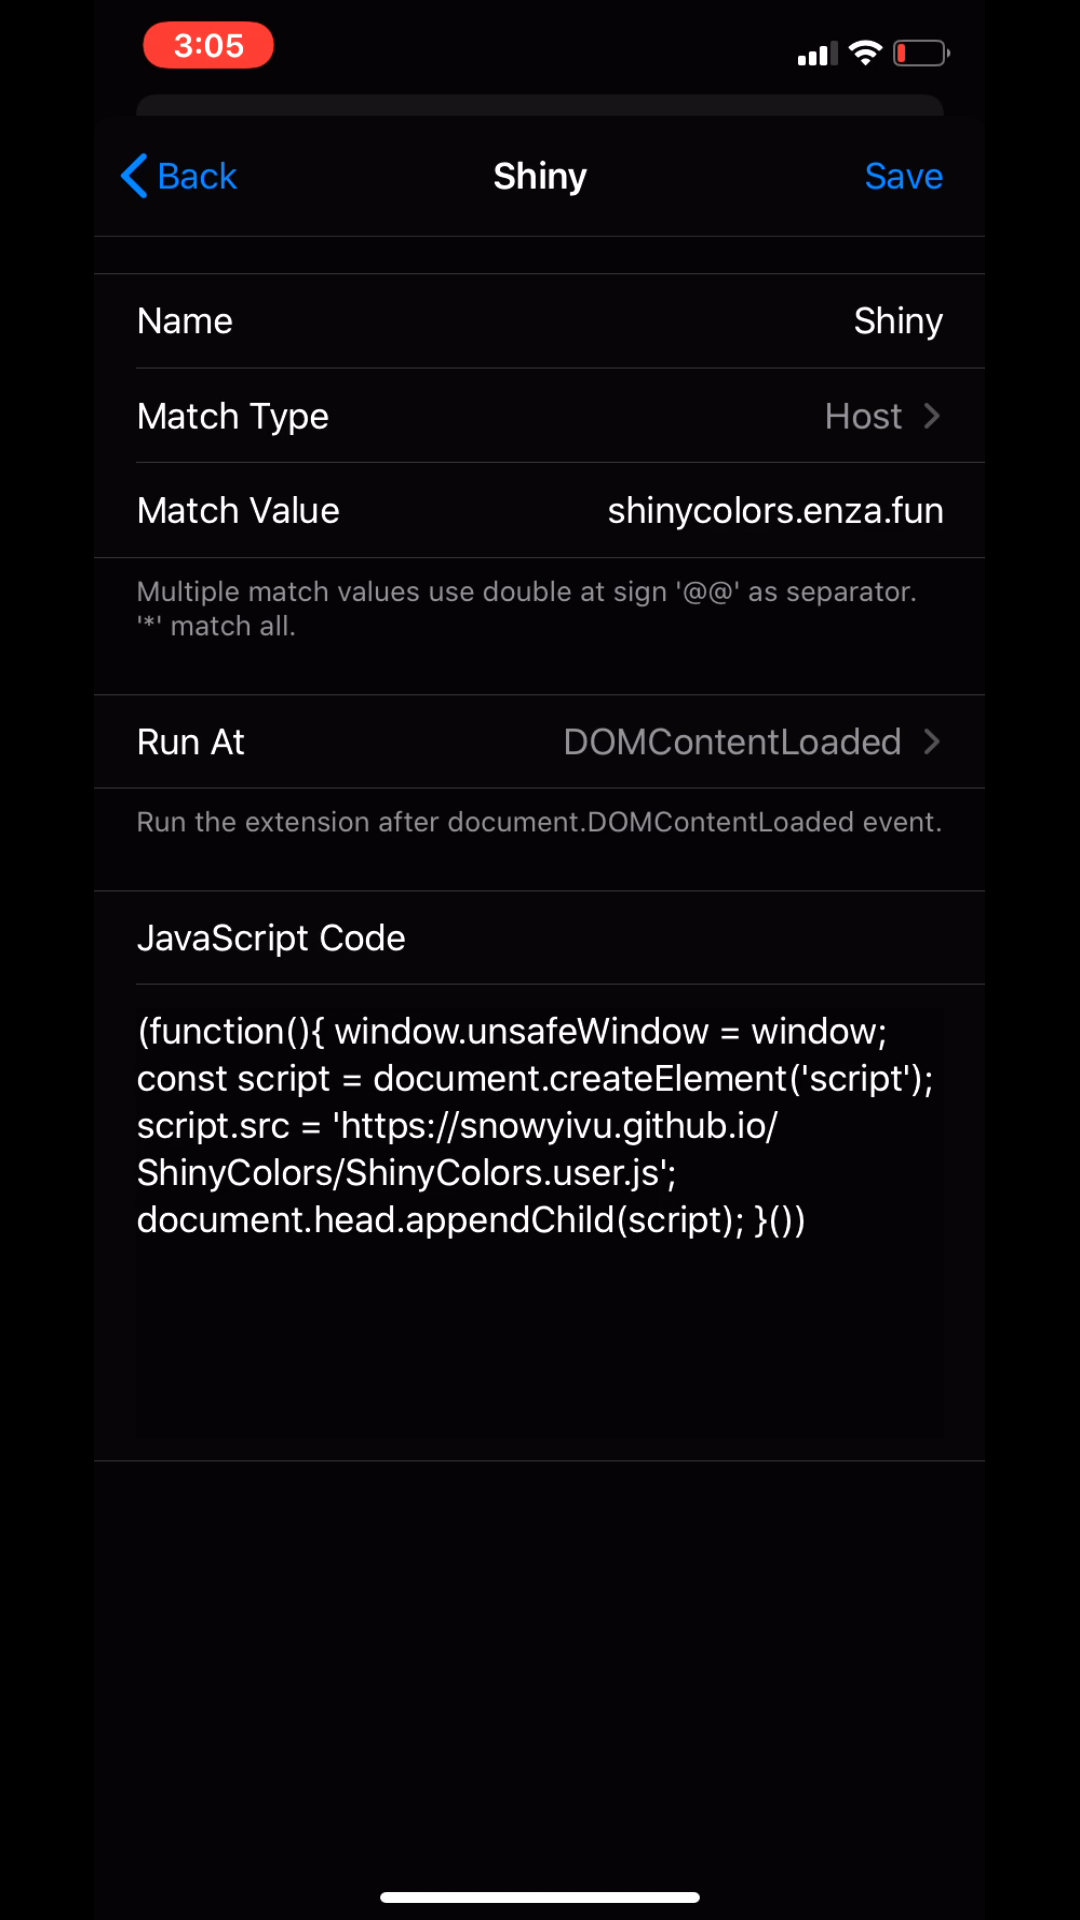
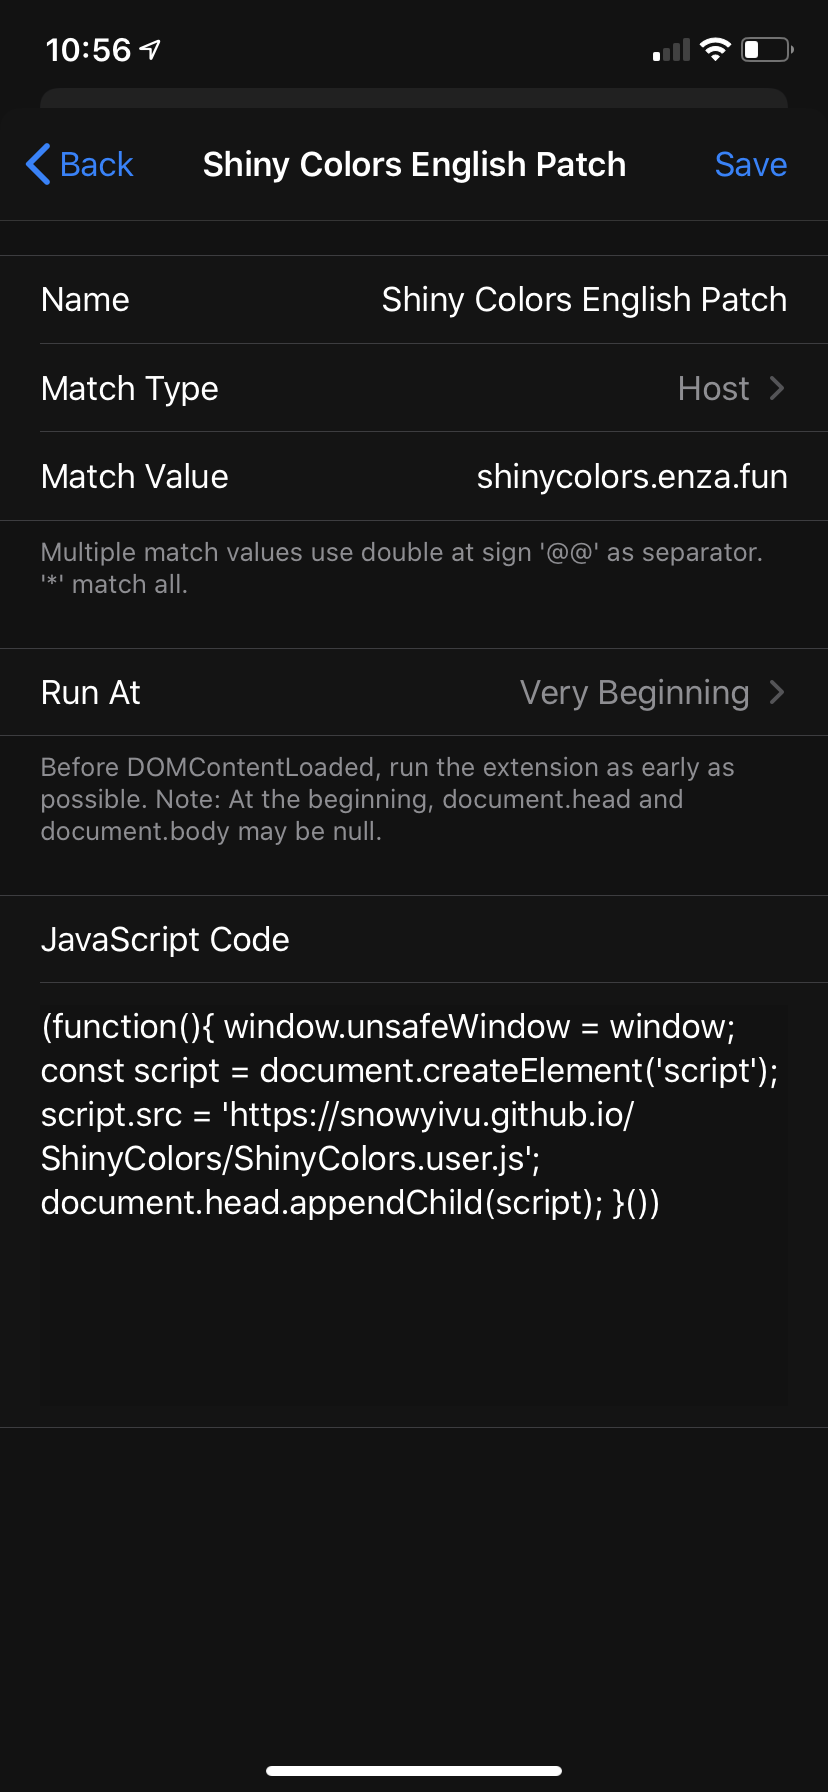
New ios install instructions

diff --git a/README.md b/README.md
@@ -42,7 +42,7 @@ Recruit-a-friend for biuuu (the original Chinese dev!): [Recruit Link](https://g
 1. For mobile，you'll need a browser that supports scripts.  Currently the only known one for iOS is Alook Browser which unfortunately is .99 cents on the App Store.
 2. Once you've downloaded Alook you'll need to set up a Javascript extension for shinycolors.enza.fun
 3. Go to Settings > Custom Settings > JavaScript Extensions > Add a New One
-4. On the next screen you will need to set up the Match Type to Host , Match Value to shinycolors.enza.fun , Run At to DOMContentLoaded , and the following JavaScript Code:
+4. On the next screen you will need to set up the Match Type to Host , Match Value to shinycolors.enza.fun , Run At to Very Beginning , and the following JavaScript Code:
 ```javascript
 (function(){
  window.unsafeWindow = window;
@@ -52,7 +52,7 @@ Recruit-a-friend for biuuu (the original Chinese dev!): [Recruit Link](https://g
 }())
 ```
 <img src="https://github.com/snowyivu/ShinyColors/blob/master/data/image/iosinstall.png" alt="Click the ..." width="30%">
-5. Play the game through the new browser and the patch should work automatically
+5. Play the game through the new browser. You may need to refresh the page once at the start each time you play to load the script.
 
 
 **Machine translation**
